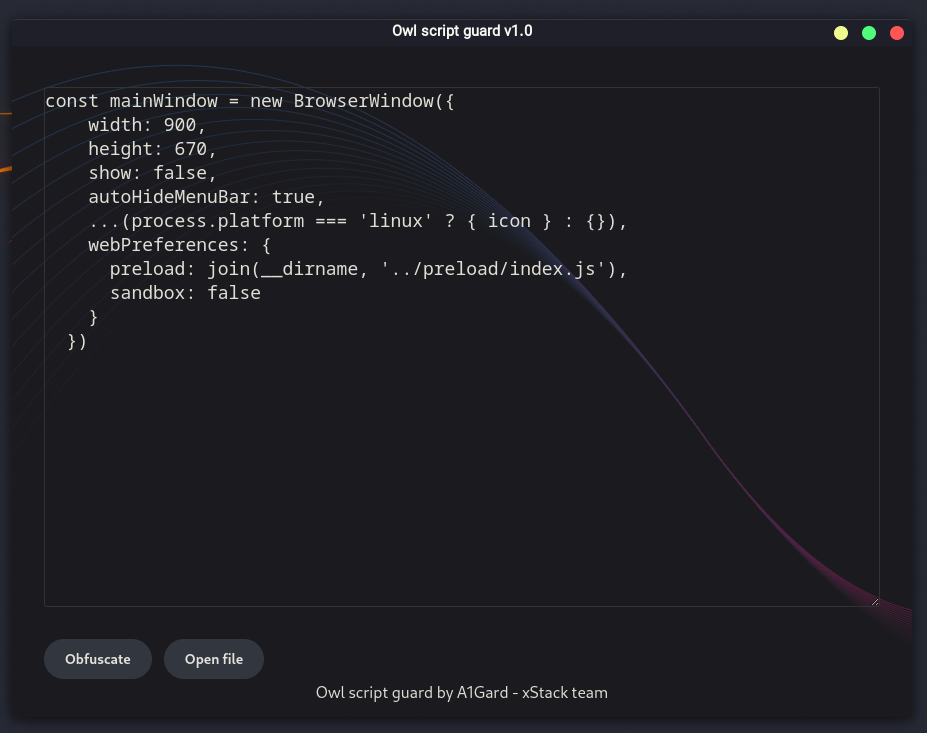
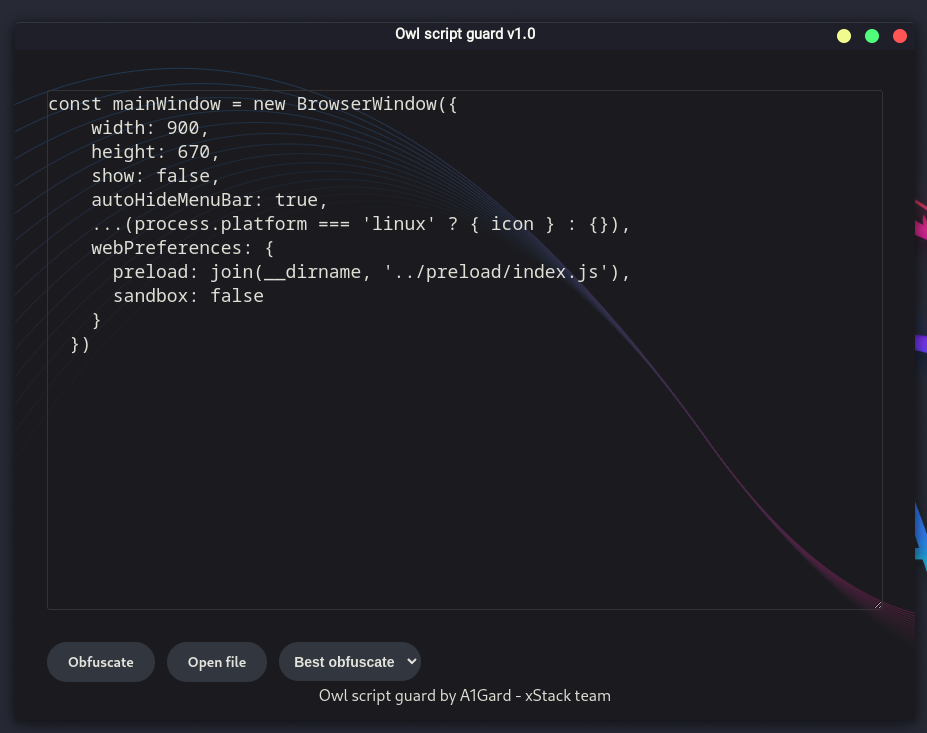
added safe option

diff --git a/src/main/index.js b/src/main/index.js
@@ -59,41 +59,72 @@ app.whenReady().then(() => {
     shell.openExternal("http://www.google.com")
     console.log('open link')
   })
-  ipcMain.on('ugly', async (event, data) => {
+  ipcMain.on('ugly', async (event, data, md) => {
     try {
-      let r2 =  obfuscate(data,
-        {
+      let mode = {
+        compact: true,
+        controlFlowFlattening: true,
+        controlFlowFlatteningThreshold: 0.75,
+        deadCodeInjection: true,
+        deadCodeInjectionThreshold: 0.4,
+        debugProtection: false,
+        debugProtectionInterval: 0,
+        disableConsoleOutput: true,
+        identifierNamesGenerator: 'hexadecimal',
+        log: false,
+        numbersToExpressions: true,
+        renameGlobals: false,
+        selfDefending: true,
+        simplify: true,
+        splitStrings: true,
+        splitStringsChunkLength: 10,
+        stringArray: true,
+        stringArrayCallsTransform: true,
+        stringArrayCallsTransformThreshold: 0.75,
+        stringArrayEncoding: ['base64'],
+        stringArrayIndexShift: true,
+        stringArrayRotate: true,
+        stringArrayShuffle: true,
+        stringArrayWrappersCount: 2,
+        stringArrayWrappersChainedCalls: true,
+        stringArrayWrappersParametersMaxCount: 4,
+        stringArrayWrappersType: 'function',
+        stringArrayThreshold: 0.75,
+        transformObjectKeys: true,
+        unicodeEscapeSequence: false
+      };
+      console.log(md)
+      if (md == 1){
+        mode = {
           compact: true,
-          controlFlowFlattening: true,
-          controlFlowFlatteningThreshold: 0.75,
-          deadCodeInjection: true,
-          deadCodeInjectionThreshold: 0.4,
+          controlFlowFlattening: false,
+          deadCodeInjection: false,
           debugProtection: false,
           debugProtectionInterval: 0,
           disableConsoleOutput: true,
           identifierNamesGenerator: 'hexadecimal',
           log: false,
-          numbersToExpressions: true,
+          numbersToExpressions: false,
           renameGlobals: false,
           selfDefending: true,
           simplify: true,
-          splitStrings: true,
-          splitStringsChunkLength: 10,
+          splitStrings: false,
           stringArray: true,
-          stringArrayCallsTransform: true,
-          stringArrayCallsTransformThreshold: 0.75,
-          stringArrayEncoding: ['base64'],
+          stringArrayCallsTransform: false,
+          stringArrayEncoding: [],
           stringArrayIndexShift: true,
           stringArrayRotate: true,
           stringArrayShuffle: true,
-          stringArrayWrappersCount: 2,
+          stringArrayWrappersCount: 1,
           stringArrayWrappersChainedCalls: true,
-          stringArrayWrappersParametersMaxCount: 4,
-          stringArrayWrappersType: 'function',
+          stringArrayWrappersParametersMaxCount: 2,
+          stringArrayWrappersType: 'variable',
           stringArrayThreshold: 0.75,
-          transformObjectKeys: true,
           unicodeEscapeSequence: false
-        });
+        };
+      }
+      let r2 =  obfuscate(data, mode
+        );
       const result = await minify(r2.getObfuscatedCode());
       event.reply('ugly-result',result.code);
     } catch (err) {

diff --git a/src/renderer/src/App.vue b/src/renderer/src/App.vue
@@ -18,6 +18,12 @@
           Open file
         </a>
       </div>
+      <div class="action">
+        <select v-model="mode">
+          <option value="0"> Best obfuscate </option>
+          <option value="1"> Safe obfuscate </option>
+        </select>
+      </div>
     </div>
     <div class="txt-center" @click="about">
       Owl script guard by A1Gard - xStack team
@@ -35,6 +41,7 @@ export default {
   },
   data: () => {
     return {
+      mode: 0,
       code: `const mainWindow = new BrowserWindow({
     width: 900,
     height: 670,
@@ -68,7 +75,7 @@ export default {
     },
     ugly() {
       // this.code = terser.minify(this.code);
-      window.electron.ipcRenderer.send('ugly', this.code)
+      window.electron.ipcRenderer.send('ugly', this.code, this.mode)
     },
     openfile() {
       window.electron.ipcRenderer.send('openfile')

diff --git a/src/renderer/src/assets/main.css b/src/renderer/src/assets/main.css
@@ -114,7 +114,7 @@ code {
   padding: 6px;
 }
 
-.action a {
+.action a, .action  select{
   cursor: pointer;
   text-decoration: none;
   display: inline-block;
@@ -136,6 +136,13 @@ code {
   color: var(--ev-button-alt-hover-text);
   background-color: var(--ev-button-alt-hover-bg);
 }
+
+.action  select{
+  padding: .6rem;
+  }
+.action  select:focus{
+  outline: none;
+  }
 
 .versions {
   position: absolute;
